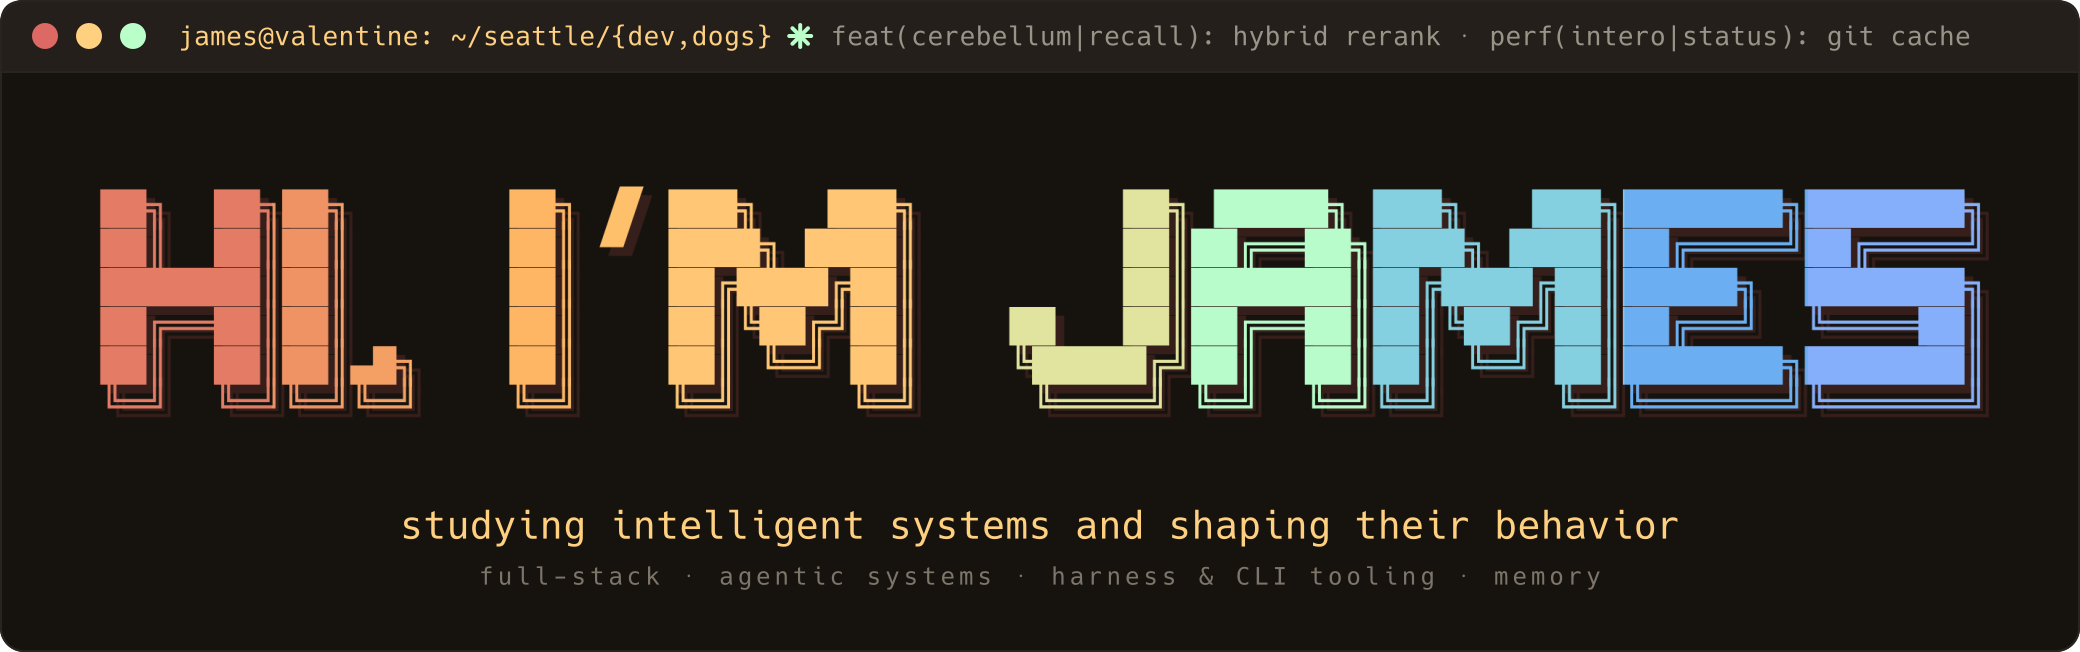
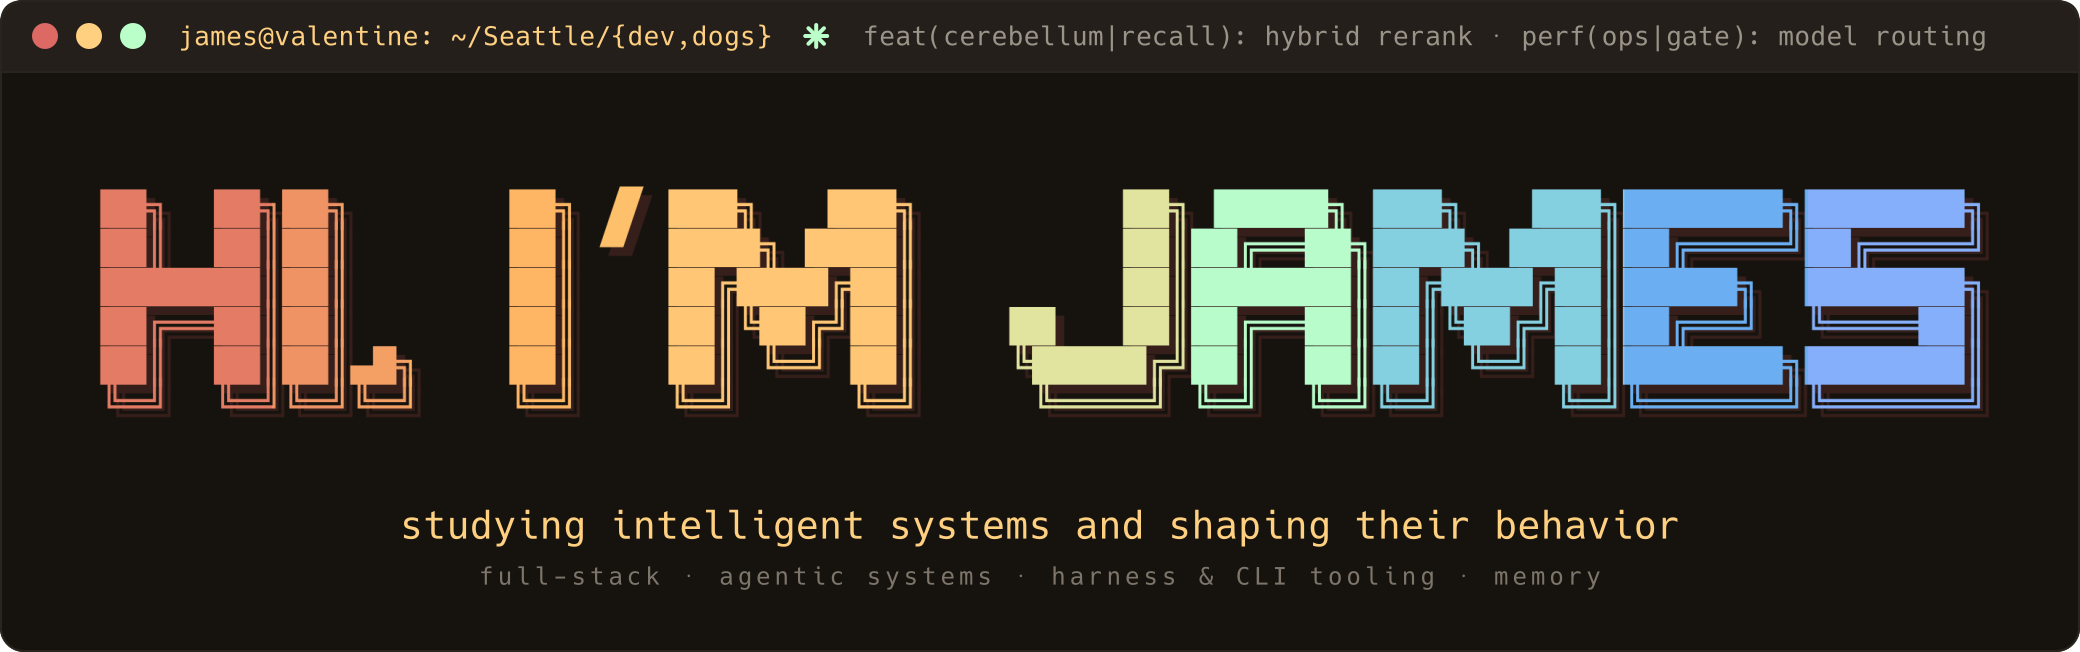
style(header): capitalize Seattle, widen star spacing in title bar

Changed region(s): [[0.375, 0.0307, 0.9688, 0.092]]

diff --git a/.github/scripts/gen_header.py b/.github/scripts/gen_header.py
@@ -21,7 +21,7 @@ OUT_SVG  = os.path.join(ASSETS, "header.svg")
 OUT_PNG  = os.path.join(ASSETS, "header.png")
 
 # --- content -----------------------------------------------------------------
-PATH    = "james@valentine: ~/seattle/{dev,dogs}"
+PATH    = "james@valentine: ~/Seattle/{dev,dogs}"
 DEFAULT = "feat(cerebellum|recall): hybrid rerank · perf(intero|status): git cache"
 TAGLINE = "studying intelligent systems and shaping their behavior"   # placeholder (Track B)
 KICKER  = "full-stack · agentic systems · harness & CLI tooling · memory"  # placeholder (Track B)
@@ -42,7 +42,7 @@ BAR_PAD_X    = 16
 LIGHT_R, LIGHT_GAP = 6.5, 9
 TITLE_FS     = 13
 CHAR_W       = TITLE_FS * 0.6        # Intero/Menlo are monospace (~0.6em advance)
-GAP_PATH_STAR, GAP_STAR_SUM = 16, 9
+GAP_PATH_STAR, GAP_STAR_SUM = 24, 17
 STAR_R, STAR_TH = 6.5, 2.0
 
 BODY_PAD_X, BODY_PAD_TOP, BODY_PAD_BOT = 30, 34, 30
